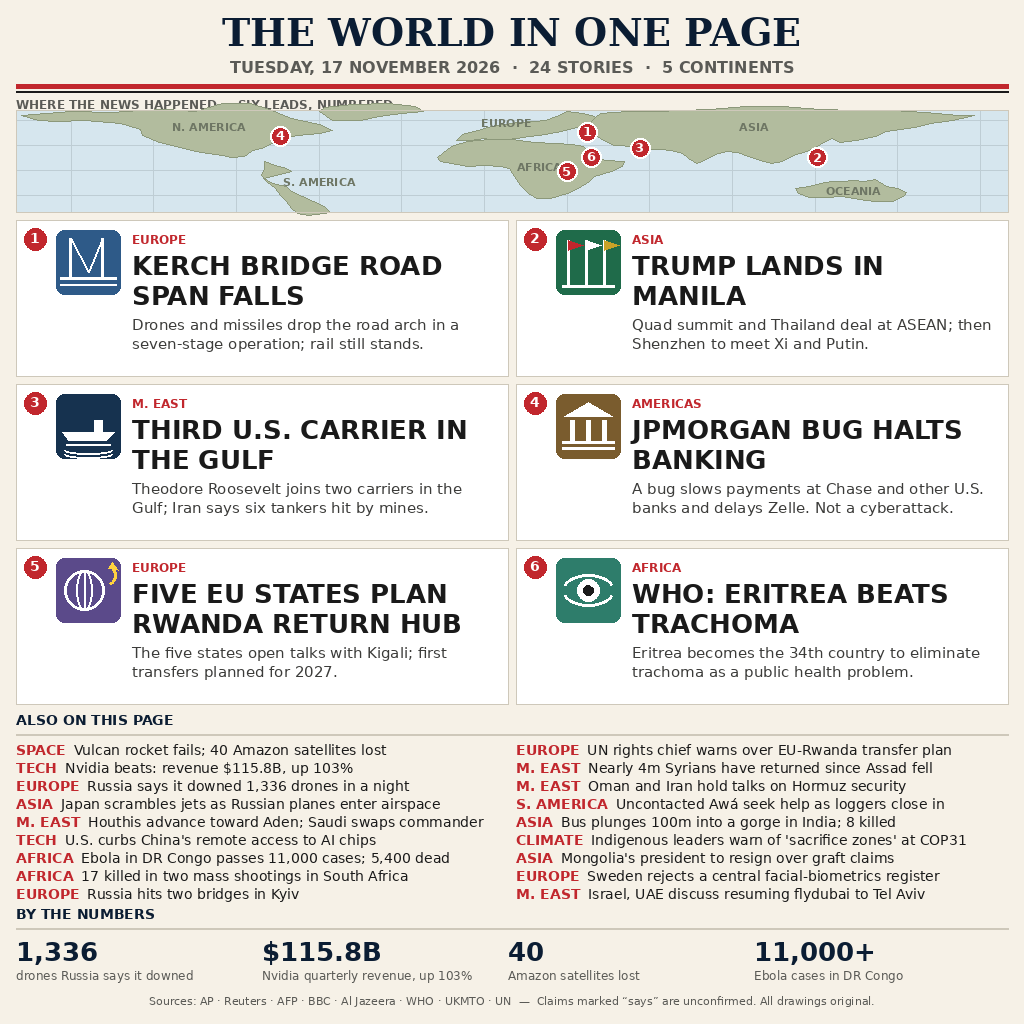
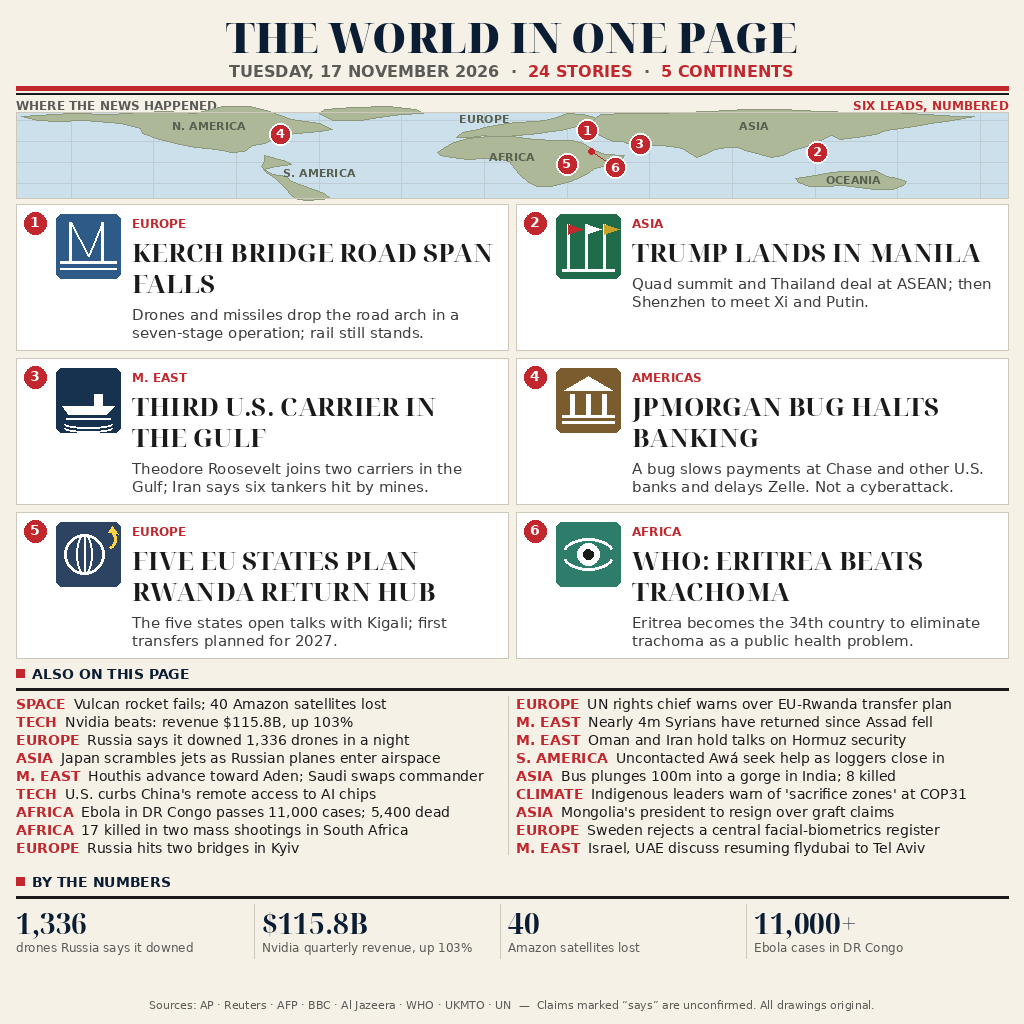
UI polish v2 (tasteskill): Noto Serif Display headlines + masthead, segmented date line with red counts, dynamic card summary flow, slate bank tile, split map label, pin-6 leader fix, section rules + dividers

Changed region(s): [[0.0, 0.0, 1.0, 1.0]]

diff --git a/compose.py b/compose.py
@@ -15,6 +15,10 @@ OUT = "entry.png"
 BOLD = "/usr/share/fonts/truetype/dejavu/DejaVuSans-Bold.ttf"
 REG = "/usr/share/fonts/truetype/dejavu/DejaVuSans.ttf"
 SERIFB = "/usr/share/fonts/truetype/dejavu/DejaVuSerif-Bold.ttf"
+# Noto Serif Display — a proper newspaper display face (condensed, high
+# contrast). Headlines and masthead use it; body stays DejaVu Sans.
+DISPB = "/usr/share/fonts/truetype/noto/NotoSerifDisplay-Bold.ttf"
+DISPBLACK = "/usr/share/fonts/truetype/noto/NotoSerifDisplay-Black.ttf"
 
 W, H = 1024, 1024
 PAPER = (246, 241, 231)
@@ -25,12 +29,12 @@ GOLD = (180, 140, 40)
 GREY = (90, 90, 86)
 CARD = (255, 255, 255)
 BORDER = (206, 200, 186)
-OCEAN = (214, 230, 238)
-LAND = (178, 188, 158)
+OCEAN = (203, 224, 234)
+LAND = (172, 184, 152)
 GRAT = (190, 205, 212)
 
 MAP_X0, MAP_X1 = 16, 1008
-MAP_Y0, MAP_Y1 = 110, 212
+MAP_Y0, MAP_Y1 = 112, 198
 LON0, LON1 = -170.0, 190.0
 LAT0, LAT1 = 72.0, -50.0
 
@@ -81,13 +85,13 @@ CONTINENTS = [
         (-62, -38), (-58, -44), (-56, -50), (-64, -54), (-68, -52),
         (-70, -46), (-72, -38), (-74, -30), (-76, -22), (-79, -14),
         (-81, -6), (-80, 2), (-80, 10)]),
-    ("EUROPE", (8, 57), [
+    ("EUROPE", (0, 62), [
         (-10, 36), (-8, 43), (-2, 47), (0, 50), (4, 53),
         (8, 55), (12, 57), (18, 58), (22, 60), (26, 64),
         (30, 70), (36, 68), (40, 64), (42, 58), (38, 54),
         (32, 50), (28, 46), (24, 44), (20, 42), (16, 40),
         (12, 38), (8, 37), (4, 36), (0, 38), (-5, 36), (-10, 36)]),
-    ("AFRICA", (20, 4), [
+    ("AFRICA", (10, 8), [
         (-17, 15), (-12, 28), (-6, 34), (2, 37), (10, 37),
         (18, 33), (26, 32), (32, 31), (36, 28), (40, 18),
         (44, 12), (51, 11), (50, 4), (46, -2), (40, -8),
@@ -115,14 +119,17 @@ CONTINENTS = [
         (121.0, 9.0), (119.8, 12.0), (119.5, 16.0)]),
 ]
 
-# (number, lon, lat)
+# (number, lon, lat, display offset px or None)
+# Pin 6 (Eritrea) is nudged with a leader line: at r=11 its true spot sits
+# ~21px below pin 1 (Kerch), so the two circles overlap; the offset puts it
+# clear of pins 1, 3 and 5.
 PINS = [
-    (1, 37.5, 45.3),    # Kerch Bridge
-    (2, 121.0, 14.6),   # Manila
-    (3, 56.5, 26.5),    # Strait of Hormuz
-    (4, -74.0, 40.7),   # New York / JPMorgan
-    (5, 30.0, -2.0),    # Rwanda
-    (6, 39.0, 15.3),    # Eritrea
+    (1, 37.5, 45.3, None),    # Kerch Bridge
+    (2, 121.0, 14.6, None),   # Manila
+    (3, 56.5, 26.5, None),    # Strait of Hormuz
+    (4, -74.0, 40.7, None),   # New York / JPMorgan
+    (5, 30.0, -2.0, None),    # Rwanda
+    (6, 39.0, 15.3, (24, 16)),  # Eritrea, offset with leader
 ]
 
 # (region, headline, summary, icon, tile colour)
@@ -141,7 +148,7 @@ LEADS = [
      "bank", (122, 92, 46)),
     ("EUROPE", "FIVE EU STATES PLAN RWANDA RETURN HUB",
      "The five states open talks with Kigali; first transfers planned for 2027.",
-     "globe", (91, 74, 138)),
+     "globe", (44, 68, 98)),
     ("AFRICA", "WHO: ERITREA BEATS TRACHOMA",
      "Eritrea becomes the 34th country to eliminate trachoma as a public health problem.",
      "eye", (46, 125, 107)),
@@ -271,13 +278,18 @@ def draw_map(d):
         if not name or name == "GREENLAND":
             continue
         lx, ly = project(llo, lla)
-        d.text((lx, ly), name, font=lab_f, fill=(110, 118, 100), anchor="mm")
+        d.text((lx, ly), name, font=lab_f, fill=(88, 96, 80), anchor="mm")
     pin_f = font(BOLD, 13)
-    for num, lo, la in PINS:
+    for num, lo, la, off in PINS:
         px, py = project(lo, la)
-        d.ellipse([px - 10, py - 10, px + 10, py + 10], fill=RED,
+        dx, dy = px, py
+        if off:
+            dx, dy = px + off[0], py + off[1]
+            d.line([dx, dy, px, py], fill=RED, width=1)
+            d.ellipse([px - 3, py - 3, px + 3, py + 3], fill=RED)
+        d.ellipse([dx - 11, dy - 11, dx + 11, dy + 11], fill=RED,
                   outline=(255, 255, 255), width=2)
-        d.text((px, py - 1), str(num), font=pin_f, fill=(255, 255, 255), anchor="mm")
+        d.text((dx, dy - 1), str(num), font=pin_f, fill=(255, 255, 255), anchor="mm")
 
 
 def main():
@@ -285,22 +297,32 @@ def main():
     d = ImageDraw.Draw(page)
 
     # ---- Masthead ----
-    d.text((W // 2, 10), "THE WORLD IN ONE PAGE", font=font(SERIFB, 38),
+    d.text((W // 2, 8), "THE WORLD IN ONE PAGE", font=font(DISPBLACK, 42),
            fill=NAVY, anchor="ma")
-    d.text((W // 2, 58), "TUESDAY, 17 NOVEMBER 2026  \u00b7  24 STORIES  \u00b7  5 CONTINENTS",
-           font=font(BOLD, 16), fill=GREY, anchor="ma")
-    d.rectangle([16, 84, W - 16, 88], fill=RED)
-    d.rectangle([16, 91, W - 16, 92], fill=INK)
+    # Date line: grey date, story counts picked out in red, centered as one unit.
+    date_f = font(BOLD, 16)
+    segs = [("TUESDAY, 17 NOVEMBER 2026  \u00b7  ", GREY),
+            ("24 STORIES", RED),
+            ("  \u00b7  ", GREY),
+            ("5 CONTINENTS", RED)]
+    total = sum(date_f.getlength(t) for t, _ in segs)
+    sx = (W - total) // 2
+    for t, c in segs:
+        d.text((sx, 62), t, font=date_f, fill=c)
+        sx += date_f.getlength(t)
+    d.rectangle([16, 86, W - 16, 90], fill=RED)
+    d.rectangle([16, 93, W - 16, 94], fill=INK)
 
     # ---- Map strip ----
-    d.text((16, 97), "WHERE THE NEWS HAPPENED \u2014 SIX LEADS, NUMBERED",
-           font=font(BOLD, 12), fill=GREY)
+    d.text((16, 98), "WHERE THE NEWS HAPPENED", font=font(BOLD, 12), fill=GREY)
+    d.text((W - 16, 98), "SIX LEADS, NUMBERED", font=font(BOLD, 12),
+           fill=RED, anchor="ra")
     draw_map(d)
     d.rectangle([MAP_X0, MAP_Y0, MAP_X1, MAP_Y1], outline=BORDER, width=1)
 
     # ---- Lead cards: 2 columns x 3 rows ----
-    card_w, card_h, gap = 492, 156, 8
-    y0 = 220
+    card_w, card_h, gap = 492, 146, 8
+    y0 = 204
     for i, (region, headline, summary, icon, tile) in enumerate(LEADS):
         col, row = i % 2, i // 2
         x = 16 + col * (card_w + gap)
@@ -312,28 +334,29 @@ def main():
                fill=(255, 255, 255), anchor="mm")
         # icon tile
         tx, ty, ts = x + 40, y + 10, 64
-        d.rounded_rectangle([tx, ty, tx + ts, ty + ts], radius=8, fill=tile)
+        d.rounded_rectangle([tx, ty, tx + ts, ty + ts], radius=6, fill=tile)
         ICONS[icon](d, tx, ty, ts)
         # text block
         tx0 = x + 116
         d.text((tx0, y + 12), region, font=font(BOLD, 12), fill=RED)
-        head_f = font(BOLD, 26)
+        head_f = font(DISPB, 26)
         lines = wrap(headline, head_f, card_w - 116 - 12)
         hy = y + 30
         for ln in lines[:2]:
             d.text((tx0, hy), ln, font=head_f, fill=INK)
-            hy += 30
+            hy += 31
         sum_f = font(REG, 15)
         slines = wrap(summary, sum_f, card_w - 116 - 12)
-        sy = y + 96
+        sy = hy + 10
         for ln in slines[:2]:
             d.text((tx0, sy), ln, font=sum_f, fill=(60, 60, 58))
-            sy += 19
+            sy += 18
 
     # ---- ALSO list ----
-    ay = 712
-    d.text((16, ay), "ALSO ON THIS PAGE", font=font(BOLD, 14), fill=NAVY)
-    d.rectangle([16, ay + 22, W - 16, ay + 23], fill=BORDER)
+    ay = 666
+    d.rectangle([16, ay + 3, 24, ay + 11], fill=RED)
+    d.text((32, ay), "ALSO ON THIS PAGE", font=font(BOLD, 14), fill=NAVY)
+    d.rectangle([16, ay + 22, W - 16, ay + 24], fill=INK)
     tag_f = font(BOLD, 14)
     txt_f = font(REG, 14)
     ly = ay + 30
@@ -344,24 +367,28 @@ def main():
             tw = tag_f.getlength(tag) + 8
             d.text((cx + tw, cy), text, font=txt_f, fill=INK)
             cy += 18
+    d.line([508, ly, 508, ly + 9 * 18 - 4], fill=BORDER, width=1)
 
     # ---- BY THE NUMBERS ----
-    ny = 906
-    d.text((16, ny), "BY THE NUMBERS", font=font(BOLD, 14), fill=NAVY)
-    d.rectangle([16, ny + 22, W - 16, ny + 23], fill=BORDER)
+    ny = 874
+    d.rectangle([16, ny + 3, 24, ny + 11], fill=RED)
+    d.text((32, ny), "BY THE NUMBERS", font=font(BOLD, 14), fill=NAVY)
+    d.rectangle([16, ny + 22, W - 16, ny + 24], fill=INK)
     cell_w = 246
     for i, (num, label) in enumerate(NUMBERS):
         cx = 16 + i * cell_w
-        d.text((cx, ny + 30), num, font=font(BOLD, 26), fill=NAVY)
+        if i:
+            d.line([cx - 8, ny + 30, cx - 8, ny + 30 + 54], fill=BORDER, width=1)
+        d.text((cx, ny + 30), num, font=font(DISPB, 28), fill=NAVY)
         lab_f = font(REG, 12)
         llines = wrap(label, lab_f, cell_w - 8)
-        ly2 = ny + 62
+        ly2 = ny + 66
         for ln in llines[:2]:
             d.text((cx, ly2), ln, font=lab_f, fill=GREY)
             ly2 += 15
 
     # ---- Source line ----
-    d.text((W // 2, 994),
+    d.text((W // 2, 998),
            "Sources: AP \u00b7 Reuters \u00b7 AFP \u00b7 BBC \u00b7 Al Jazeera \u00b7 WHO \u00b7 UKMTO \u00b7 UN  \u2014  "
            "Claims marked \u201csays\u201d are unconfirmed. All drawings original.",
            font=font(REG, 11), fill=GREY, anchor="ma")
